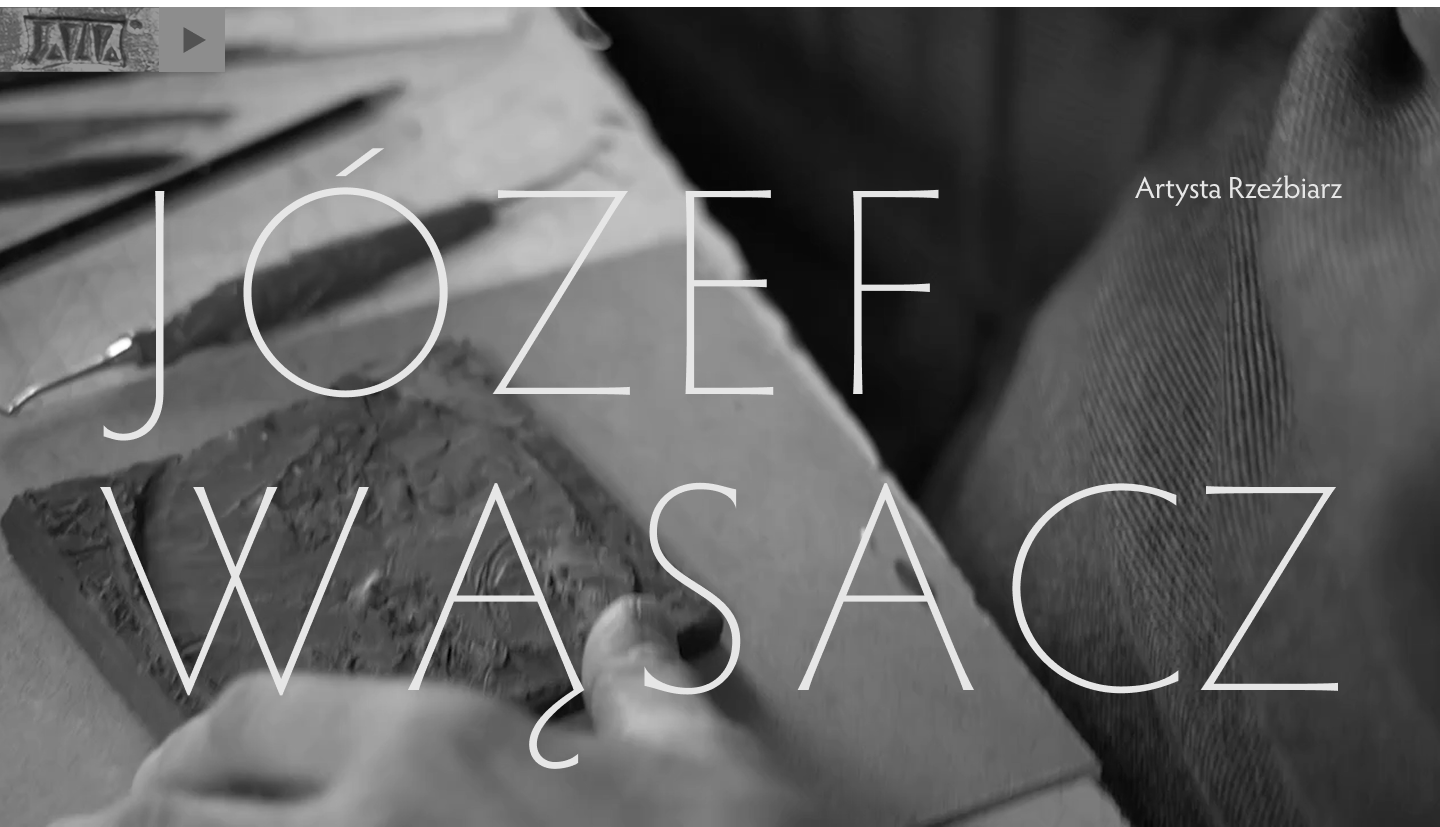
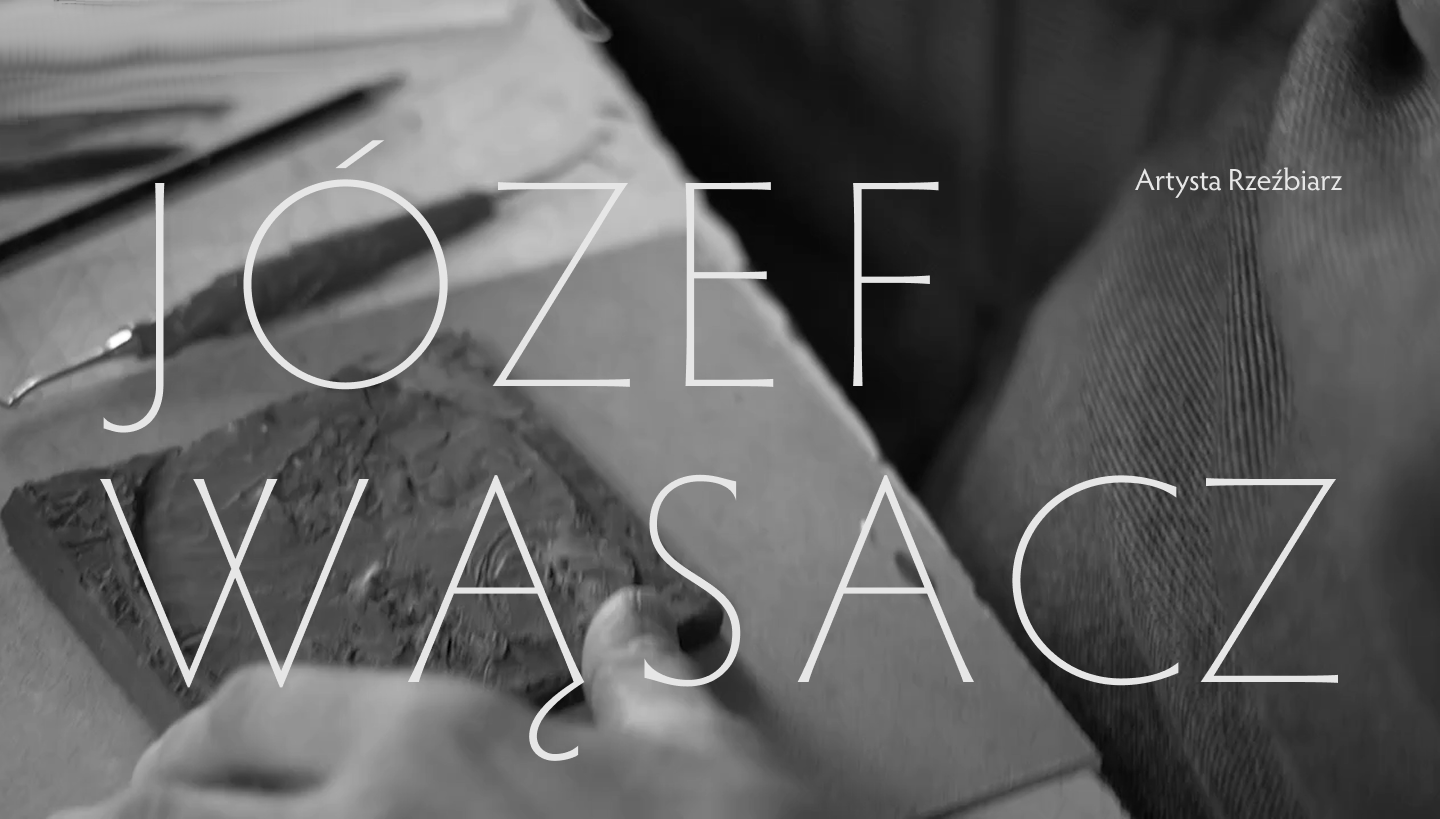
more design

diff --git a/js/script.js b/js/script.js
@@ -141,7 +141,7 @@ document.addEventListener('DOMContentLoaded', function() {
 
     // Render timeline for osiagniecia section
     const timelineContainer = document.querySelector('.timeline-container');
-    if (timelineContainer && typeof timelineEvents !== 'undefined' && typeof timelineMilestones !== 'undefined') {
+    if (timelineContainer && typeof timelineEvents !== 'undefined') {
         const timeline = document.createElement('div');
         timeline.className = 'timeline';
 
@@ -150,43 +150,7 @@ document.addEventListener('DOMContentLoaded', function() {
         axis.className = 'timeline-axis';
         timeline.appendChild(axis);
 
-        // Calculate year range based on EVENTS only
-        const eventYears = timelineEvents.map(e => parseInt(e.year));
-        const minYear = Math.min(...eventYears);
-        const maxYear = Math.max(...eventYears);
-        const yearRange = maxYear - minYear;
-        const totalEvents = timelineEvents.length;
-
-        // Add milestones positioned based on their actual timestamps
-        timelineMilestones.forEach(milestone => {
-            const milestoneYear = parseInt(milestone.year);
-            
-            // Only show milestones within the event year range
-            if (milestoneYear < minYear || milestoneYear > maxYear) {
-                return;
-            }
-            
-            // Position proportionally based on the year within the event range
-            const yearPosition = yearRange > 0 ? ((milestoneYear - minYear) / yearRange) * 100 : 0;
-
-            const milestoneDiv = document.createElement('div');
-            milestoneDiv.className = 'timeline-milestone';
-            milestoneDiv.style.left = `${yearPosition}%`;
-
-            const marker = document.createElement('div');
-            marker.className = 'timeline-milestone-marker';
-
-            const text = document.createElement('div');
-            text.className = 'timeline-milestone-text';
-            text.textContent = milestone.label;
-
-            milestoneDiv.appendChild(text);
-            milestoneDiv.appendChild(marker);
-            timeline.appendChild(milestoneDiv);
-        });
-
-        // Add events (evenly spaced)
-        timelineEvents.forEach((event, index) => {
+        function addEventMarker(event) {
             const eventDiv = document.createElement('div');
             eventDiv.className = 'timeline-event';
 
@@ -195,12 +159,48 @@ document.addEventListener('DOMContentLoaded', function() {
 
             const text = document.createElement('div');
             text.className = 'timeline-event-text';
-            text.innerHTML = `<strong>${event.year}</strong><br>${event.description}`;
+            text.innerHTML = `${event.description}`;
 
             eventDiv.appendChild(marker);
             eventDiv.appendChild(text);
             timeline.appendChild(eventDiv);
-        });
+        }
+        
+        function addMilestoneMarker(year,position) {
+            const milestoneDiv = document.createElement('div');
+            milestoneDiv.className = 'timeline-milestone';
+            milestoneDiv.style.left = `${position}px`;
+
+            const marker = document.createElement('div');
+            marker.className = 'timeline-milestone-marker';
+
+            const text = document.createElement('div');
+            text.className = 'timeline-milestone-text';
+            text.textContent = year;
+
+            milestoneDiv.appendChild(text);
+            milestoneDiv.appendChild(marker);
+            timeline.appendChild(milestoneDiv);
+            console.log(`Added milestone for year ${year} at position ${milestoneDiv.style.left}`);
+        }
+
+        // Add milestones positioned based on their actual timestamps
+        eventCount = timelineEvents.length;
+        eventWidth = 250;
+        timelinePadding = 250;
+        lastYear = null;
+        for ( event_i = 0; event_i < eventCount; event_i++) {
+            
+            let event = timelineEvents.at(event_i);
+            let eventYear = event.year;
+            addEventMarker(event);
+
+            // add milestone if year changed
+            if (lastYear != eventYear) {
+                addMilestoneMarker(eventYear, ((event_i +1) * eventWidth) / eventCount * 10 + timelinePadding);
+            }
+            lastYear = eventYear;
+        };
 
         timelineContainer.appendChild(timeline);
     }

diff --git a/css/styles.css b/css/styles.css
@@ -18,7 +18,7 @@ header {
     align-items: center;          /* Vertical alignment */
     display: flex;
     background-color: #ababab;
-    color: white;
+    color: #d7d7d7;
     position: relative;
     flex-shrink: 0;
     height: 65px;
@@ -80,7 +80,7 @@ header {
 
 #menu-select li:not(:last-child)::after {
   content: "|";     /* Dodaje pionową kreskę */
-  color: #ccc;      /* Kolor separatora */
+  color: #d7d7d7;      /* Kolor separatora */
   z-index: 10;
   font-size: 50px
 }
@@ -135,14 +135,15 @@ section.active p {
 
 #welcome {
     display: flex;
-    align-items: center;
-    justify-content: center;
+    position: absolute;
+    top: 0px;
+    left: 0px;
     flex: 1;
 }
 
 footer {
     background-color: #8d8d8d;
-    color: white;
+    color: #d7d7d7;
     text-align: center;
     padding: 15px 20px;
     font-size: 14px;
@@ -151,10 +152,10 @@ footer {
 
 #welcome-image {
     display: block;
-    margin: 0 auto;
     width: 100%;
-    max-width: 800px;
     height: auto;
+    -webkit-mask-image: linear-gradient(to bottom, black 70%, transparent 100%);
+    mask-image: linear-gradient(to bottom, black 70%, transparent 100%);
 }
 
 .gallery-container {
@@ -199,7 +200,7 @@ footer {
     min-height: 120px;
     border: none;
     background: rgba(0, 0, 0, 0.2);
-    color: white;
+    color: #d7d7d7;
     font-size: 2rem;
     line-height: 1;
     display: flex;
@@ -258,7 +259,7 @@ footer {
     min-height: 120px;
     border: none;
     background: rgba(0, 0, 0, 0.2);
-    color: white;
+    color: #d7d7d7;
     font-size: 2rem;
     line-height: 1;
     display: flex;
@@ -303,6 +304,8 @@ footer {
     width: 100%;
     overflow-x: auto;
     padding: 20px 0;
+    /* scrollbar-color: [kolor uchwytu] [kolor tła paska] */
+    scrollbar-color: #8d8d8d #ababab;
 }
 
 .timeline {
@@ -315,12 +318,11 @@ footer {
 
 .timeline-axis {
     position: absolute;
-    top: 50px;
+    top: 200px;
     left: 0px;
     right: 0px;
-    height: 6px;
-    background-color: #666;
-    border: 2px solid #333;
+    height: 35px;
+    background-color: #d7d7d7;
     border-radius: 3px;
     z-index: 1;
 }
@@ -330,41 +332,35 @@ footer {
     display: flex;
     flex-direction: column;
     align-items: center;
-    margin: 0 60px;
-    min-width: 120px;
+    margin-top: 180px;
+    width: 250px;
 }
 
 .timeline-marker {
-    width: 8px;
-    height: 16px;
-    background-color: #333;
-    border: 2px solid #666;
+    width: 25px;
+    height: 70px;
+    background-color: #8d8d8d;
     position: relative;
     z-index: 2;
-    margin: 16px 0 8px 0; /* Extend 8px up and 8px down from axis */
     border-radius: 2px;
 }
 
 .timeline-milestone-marker {
-    width: 8px;
-    height: 24px;
-    background-color: #666;
-    border: 2px solid #999;
+    width: 10px;
+    height: 60px;
+    background-color: #e6e6e6;
     position: relative;
-    z-index: 2;
-    margin: 12px 0 24px 0; /* Extend 12px up and 12px down from axis */
     border-radius: 2px;
+    margin-top: 30px;
 }
 
 .timeline-event-text {
-    background-color: #f7f7f7;
     padding: 15px;
     border-radius: 8px;
     text-align: center;
     max-width: 150px;
-    font-size: 0.9rem;
+    font-size: 1.5rem;
     line-height: 1.4;
-    box-shadow: 0 2px 4px rgba(0,0,0,0.1);
 }
 
 .timeline-milestone {
@@ -374,16 +370,17 @@ footer {
     display: flex;
     flex-direction: column;
     align-items: center;
+    z-index: 3;
+    margin-top: 95px;
 }
 
 .timeline-milestone-text {
-    font-size: 0.8rem;
+    font-size: 1.5rem;
     color: #666;
     font-weight: bold;
     white-space: nowrap;
     transform: rotate(-90deg);
     transform-origin: center;
-    margin-top: 5px;
 }
 
 .timeline-milestone-line {

diff --git a/js/osiagnieciaConfig.js b/js/osiagnieciaConfig.js
@@ -10,6 +10,10 @@ const timelineEvents = [
         description: "Pierwsza wystawa indywidualna"
     },
     {
+        year: "2017",
+        description: "cos wystawa indywidualna"
+    },
+    {
         year: "2019",
         description: "Nagroda za rzeźbę współczesną"
     },
@@ -37,12 +41,4 @@ const timelineEvents = [
         year: "2027",
         description: "Publikacja książki o sztuce 4"
     }
-];
-
-// Time milestones are positioned based on year but don't affect event spacing
-const timelineMilestones = [
-    { year: "2018", label: "2018" },
-    { year: "2020", label: "2020" },
-    { year: "2025", label: "2025" },
-    { year: "2050", label: "2050" }
 ];

diff --git a/index.html b/index.html
@@ -27,7 +27,7 @@
         </div>
     </header>
     <main id="content">
-        <section id="welcome" class="active">
+        <section id="welcome">
             <img src="images/welcome.png" alt="Welcome Image" id="welcome-image">
         </section>
         <section id="about">
@@ -55,7 +55,11 @@
             </div>
         </section>
         <section id="contact">
-            <p>Email: contact@jzf.com</p>
+            <h2>Pracownia</h2>
+            <p>Piekary, 32-060 Liszki<br><br></p>
+            <h2>E-mail</h2>
+            <p>Email: contact@jzf.com<br><br></p>
+            <h2>Telefon</h2>
             <p>Phone: (123) 456-7890</p>
         </section>
     </main>
